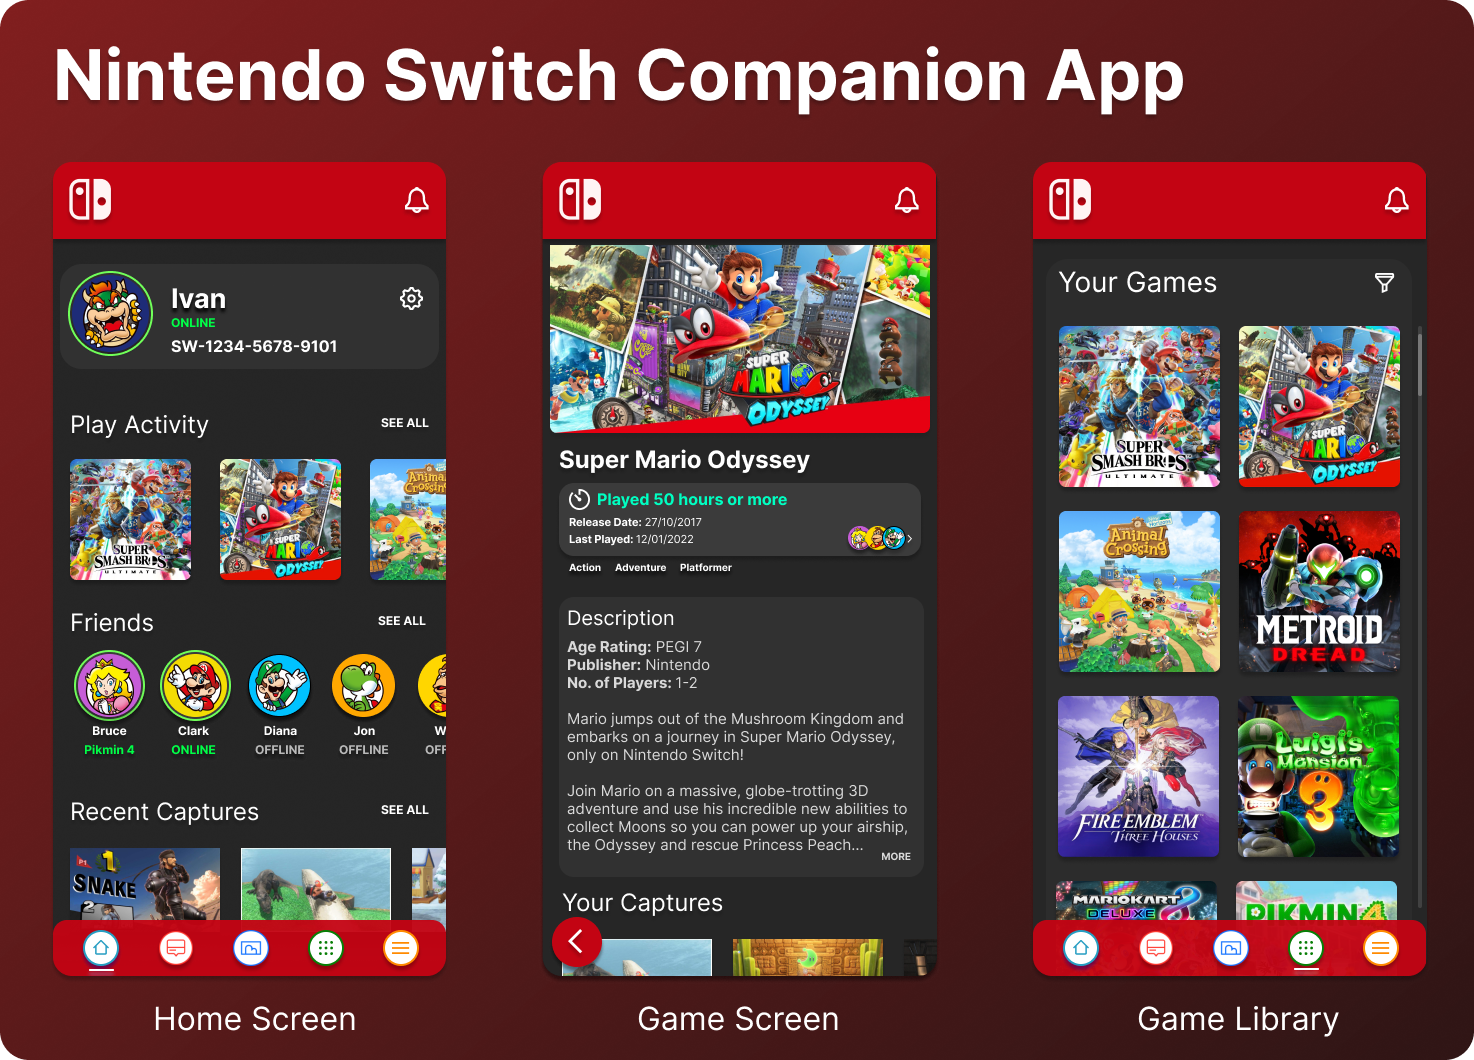
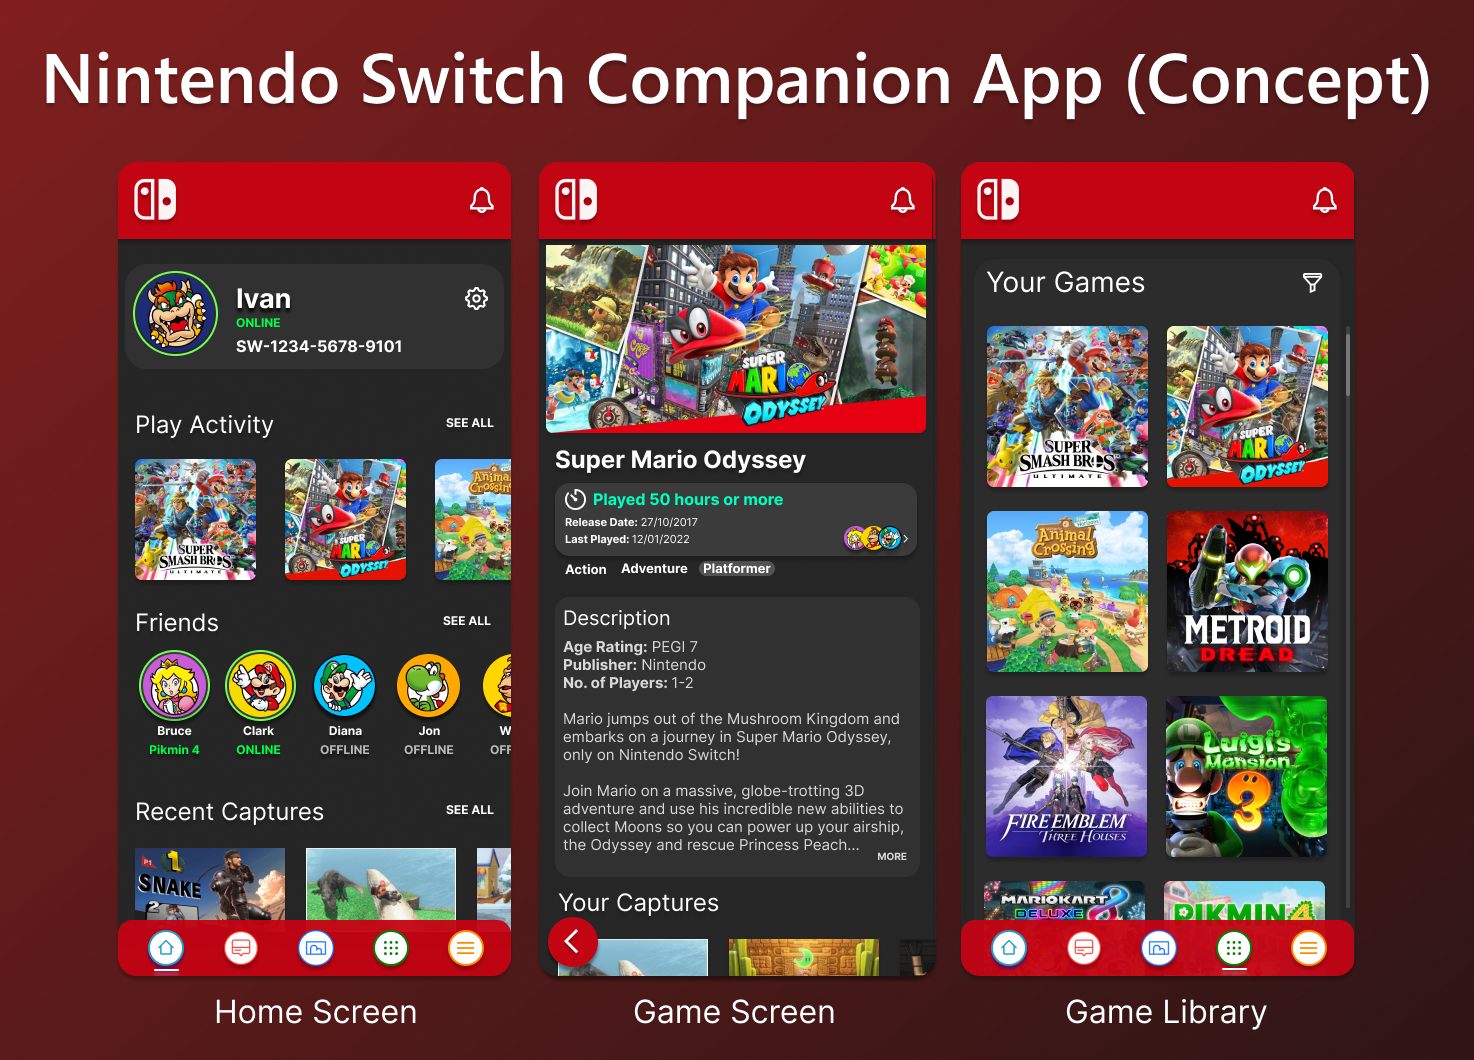
Updated Switch image and removed footer.

diff --git a/index.html b/index.html
@@ -100,14 +100,6 @@
                     </div>
                     </div>
             </div>
-            <div id="Footer" class="text-center p-3">
-                <div class="footer-row">
-                    <a class="navbar-brand" href="https://github.com/Ivan-Ndahiro">
-                        <img src="images/github.png" width="30" height="30">
-                    </a>
-                </div><br>
-                <!--Stock assets made by Racool_studio and chandlervid85-->
-            </div>
         </div>
     </div>
     <script src="https://cdn.jsdelivr.net/npm/@popperjs/core@2.11.6/dist/umd/popper.min.js" integrity="sha384-oBqDVmMz9ATKxIep9tiCxS/Z9fNfEXiDAYTujMAeBAsjFuCZSmKbSSUnQlmh/jp3" crossorigin="anonymous"></script>

diff --git a/css/portfolio.css b/css/portfolio.css
@@ -112,9 +112,6 @@ a {
     padding-left: 5%;
     padding-right: 5%;
 }
-#UIUX{
-    padding-left: 2.5%;
-}
 
 /*IMAGES*/
 .pfp{
